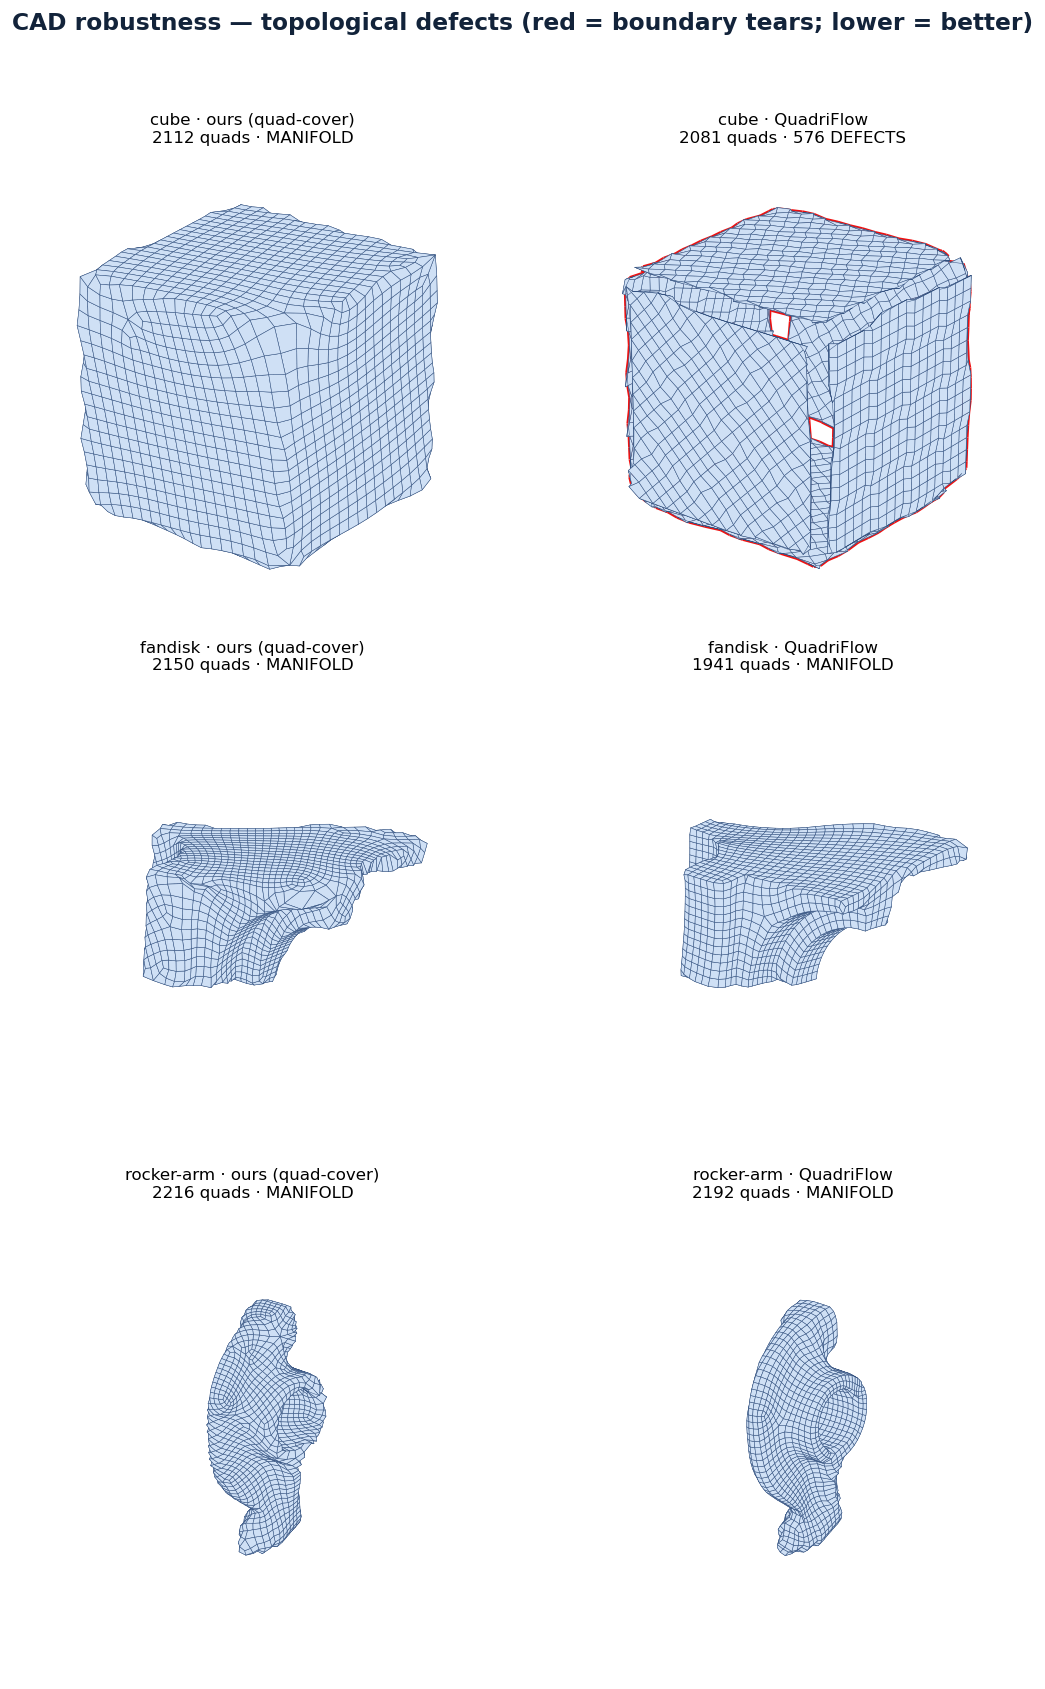
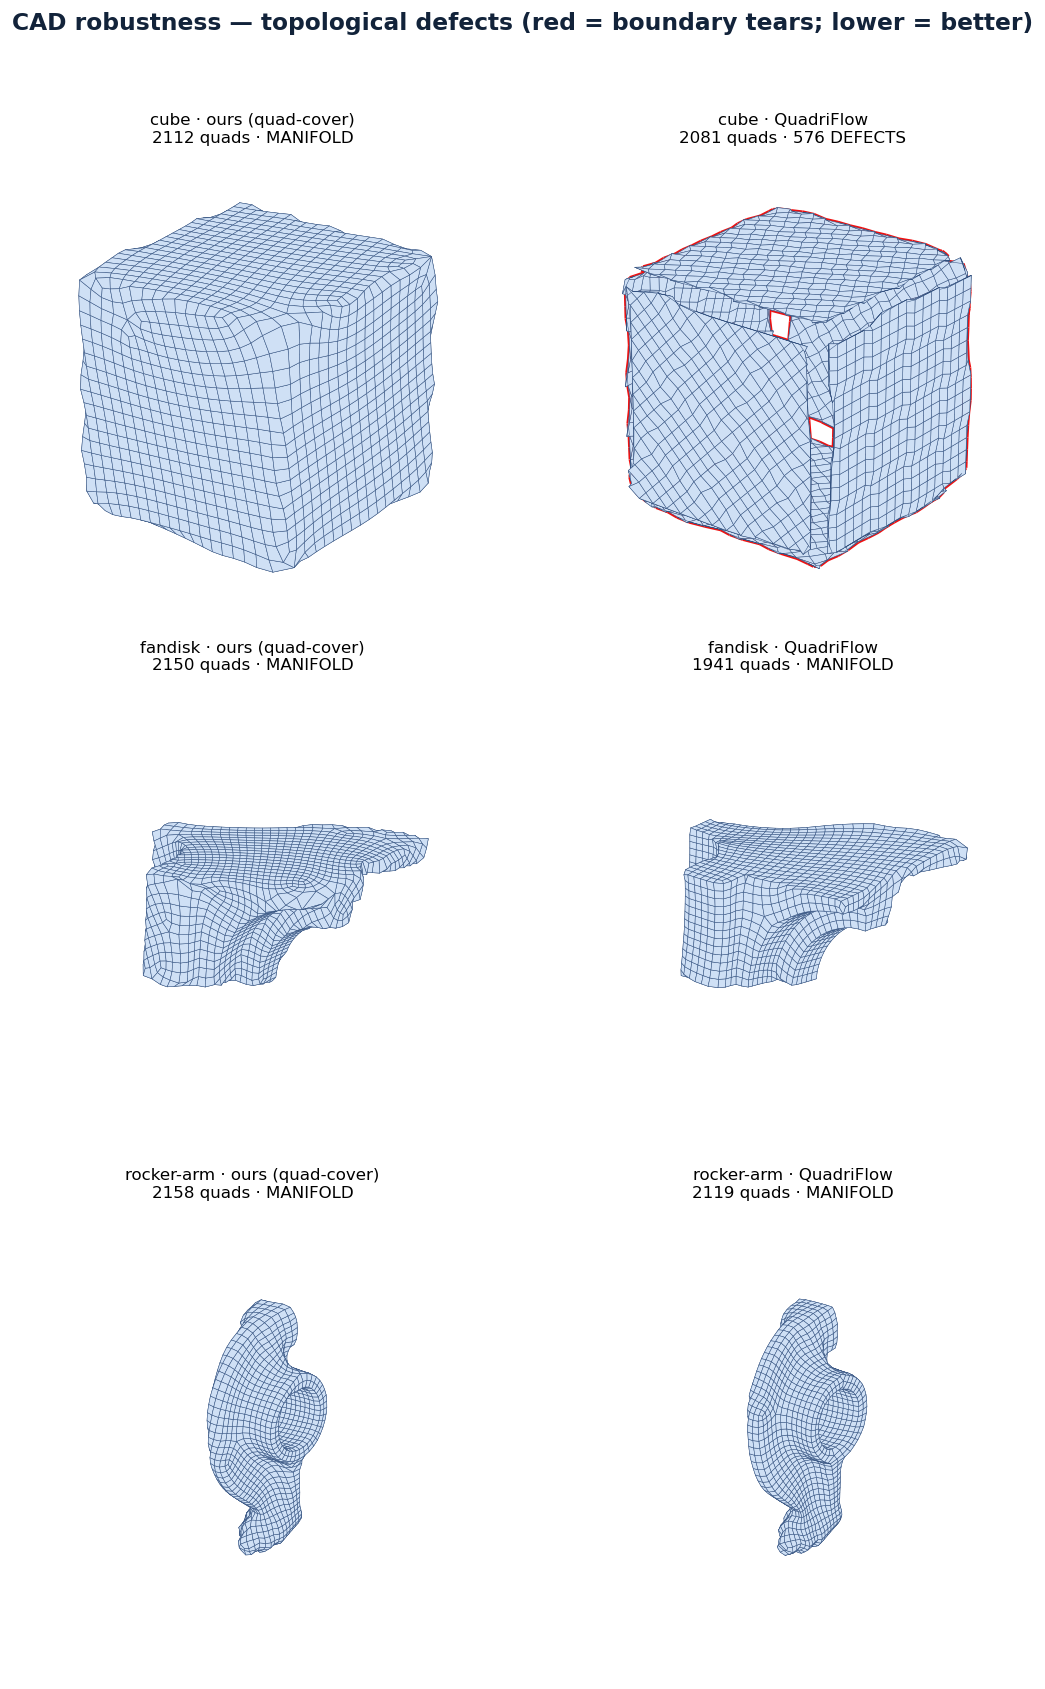
openspec: state the measured quality guarantee, not the aspirational one
remeshing-pipeline claimed the quad-cover default SHALL match or beat
QuadriFlow on median angle AND irregular-vertex count "on the organic test
corpus". That is unmet: cheburashka is organic and loses both axes (median
80 vs 82, irregular 4% vs 2%) plus the corpus's widest edge-CV gap. The
claim came from a "3/4 organic" reading that counted mechanical rocker-arm
as organic and omitted cheburashka; the real figures are 2/3 organic and
3/5 corpus-wide.

Split the overloaded scenario so backend selection/degrade behaviour stays
separate from the quality claim, and restate the claim per-model against the
re-pointed benchmark. Promote topological validity to normative — it holds
5/5 and is the one axis we beat QuadriFlow on outright, but was unstated.
Add feature-following as an explicit known gap with its root cause
(un-pinned integer-grid phase) so it is not mis-scoped as a snap problem.

Re-measured the cube tear case instead of quoting it from notes: it is 576
boundary edges against our 0 at ~2100 quads, not the 554/508 floating around
in older notes. The count scales with requested density, so the spec pins the
density and makes the shape of the result the normative part.

No engine changes. 14/14 specs validate --strict.

diff --git a/openspec/changes/archive/2026-07-23-align-quality-claims-with-measurement/proposal.md b/openspec/changes/archive/2026-07-23-align-quality-claims-with-measurement/proposal.md
@@ -1,0 +1,56 @@
+# Proposal: align-quality-claims-with-measurement
+
+## Why
+
+`remeshing-pipeline` carries a normative quality guarantee the benchmark does not
+support:
+
+> on the organic test corpus it SHALL match or beat QuadriFlow on median quad
+> angle AND irregular-vertex count
+
+That sentence entered the spec from a "3/4 organic models" reading that was
+selection bias — it counted **rocker-arm**, a mechanical part, as organic and
+omitted **cheburashka**, an actual organic character. Cheburashka loses *both*
+named axes (median 80 vs 82, irregular 4% vs 2%) and carries the corpus's widest
+edge-length-CV gap (0.22 vs 0.15). On the real organic set the default is **2/3**,
+not 3/4; corpus-wide it is **3/5 on median and 3/5 on irregular**.
+
+The claim also became measurable only recently: the benchmark had been scoring the
+retired `instant-meshes` extractor in its comparison phases, and was re-pointed at
+the shipped default in `7abbaec`. The numbers below are from that corrected
+harness.
+
+Meanwhile the spec **understates** the result that is actually corpus-wide and
+unambiguous: the default is topologically valid on **5/5**, including cases where
+QuadriFlow tears the mesh (cube: 0 defects vs 554; stanford-bunny: 8 vs 38). The
+strongest true claim is not in the spec, and a weaker false one is.
+
+This change replaces the aspiration with the measurement, and records the two
+known losses so they are tracked rather than implied away.
+
+## What Changes
+
+- **Narrow the quality guarantee** in the default-extractor scenario from "the
+  organic test corpus … median AND irregular" to the measured majority (spot,
+  rocker-arm, stanford-bunny), naming **fandisk and cheburashka** as the known
+  exceptions.
+- **Promote topological validity to a normative guarantee** — it holds on 5/5 and
+  is the one axis where the default beats QuadriFlow outright.
+- **State the feature-following gap as a known limitation** rather than leaving it
+  unmentioned: 3 real losses (fandisk 2.0x, cheburashka 2.0x, rocker-arm 1.5x),
+  with spot a tie and stanford-bunny confounded by its scan-hole boundary.
+
+No code changes. This is a spec-correctness change: the engine is unchanged and
+the benchmark already reports these numbers.
+
+## Capabilities
+
+- `remeshing-pipeline` — MODIFIED: quality claims restated against measurement.
+
+## Impact
+
+- Anyone reading the spec as a contract gets the guarantee the code actually
+  meets. The previous text would fail a conformance check on cheburashka.
+- The feature-following gap becomes a documented, tracked limitation instead of an
+  unstated one; see `docs/ROADMAP.md` for the three cheap levers already measured
+  dead (M2a vertex-snap, M2b gauge-pin, M2c routing-threshold).

diff --git a/openspec/changes/archive/2026-07-23-align-quality-claims-with-measurement/specs/remeshing-pipeline/spec.md b/openspec/changes/archive/2026-07-23-align-quality-claims-with-measurement/specs/remeshing-pipeline/spec.md
@@ -1,0 +1,45 @@
+# remeshing-pipeline (delta)
+
+## MODIFIED Requirements
+
+### Requirement: Quad extraction and pure-quad option
+Extraction SHALL trace integer isolines into a connection graph, simplify it (dissolve valence-2 vertices, collapse degenerate edges/cycles, prune dangling chains), and enumerate faces. Default output is quad-dominant. When the pure-quad option is enabled, a post-pass SHALL eliminate non-quads where topologically achievable (splitting/merging into quads) and the report SHALL state the exact residual non-quad count.
+
+#### Scenario: Non-quad accounting
+- **WHEN** any remesh completes
+- **THEN** the report SHALL state quad count, non-quad count by arity, vertex count, and singularity count
+
+#### Scenario: QuadCover seamless-UV extractor is the default
+- **WHEN** a remesh runs without an explicit quadMethod
+- **THEN** the pipeline SHALL use the `quad-cover` quadrangulator by default (CLI, C ABI, and bindings), which parameterizes each island with a seamless-UV solve and extracts integer isolines into quads, and SHALL degrade to the field-aligned quadrangulator (never silently to a corrupt mesh) when no seamless-UV solver can produce a valid result for an island
+
+#### Scenario: Element quality against the QuadriFlow reference
+- **WHEN** the default `quad-cover` path runs on the benchmark corpus (spot, fandisk, rocker-arm, cheburashka, stanford-bunny) with the in-process reference field compiled in (see the seamless-UV backend requirement), at a matched quad count
+- **THEN** it SHALL match or beat QuadriFlow on median quad angle AND irregular-vertex count on **spot, rocker-arm and stanford-bunny**, and the benchmark SHALL report the per-model comparison rather than a single aggregate
+- **AND** **fandisk** (median 83 vs 85, irregular 3% vs 1%) and **cheburashka** (median 80 vs 82, irregular 4% vs 2%, edge-length CV 0.22 vs 0.15) are known exceptions, tracked as the crease-alignment gap below; a claim of a corpus-wide or organic-corpus win on these axes is NOT supported by measurement
+
+#### Scenario: Topological validity is the corpus-wide guarantee
+- **WHEN** the default `quad-cover` path runs on any model in the benchmark corpus
+- **THEN** its output SHALL be at least as topologically valid as QuadriFlow's on every model, counting non-manifold edges, boundary edges and degenerate faces — measured as 0 defects on spot, fandisk, rocker-arm and cheburashka, and 8 vs QuadriFlow's 38 on stanford-bunny
+- **AND** it SHALL remain manifold on degenerate flat CAD input where QuadriFlow tears: a subdivided sharp-edged cube at ~2100 quads gives 0 defects against QuadriFlow's 576 boundary edges (`examples/12_cad_robustness.py`). The reference's tear count scales with the requested density and is not a fixed figure; the normative part is that ours is 0 and QuadriFlow's is in the hundreds
+
+#### Scenario: Feature-following is a known gap
+- **WHEN** output fidelity to source creases is measured against QuadriFlow
+- **THEN** the default SHALL be reported as trailing, not matching: fandisk 0.82 vs 0.41 (2.0x), cheburashka 1.15 vs 0.57 (2.0x) and rocker-arm 0.61 vs 0.40 (1.5x), with spot a tie (0.46 vs 0.44, only 73 crease edges) and stanford-bunny confounded because the metric counts its scan-hole boundary as a feature
+- **AND** the cause SHALL be recorded as un-pinned integer-grid *phase* (the cross field is crease-aligned; the quad loops sit about half a cell off the creases), so that closing it is understood to require per-feature-edge integer constraints in the parameterization rather than a post-extraction snap
+
+#### Scenario: Field-aligned pairing maximizes quad-dominance
+- **WHEN** the field-aligned quadrangulator pairs triangles into quads
+- **THEN** it SHALL compute a maximum matching on the triangle-adjacency graph (a weighted-greedy seed that prefers field-diagonal, high-quality merges, followed by augmenting-path improvement that rescues triangles a greedy pass would strand), so quad-dominance is maximized (~95%+ on clean input) rather than left at the ~76–84% a greedy maximal matching produces, while surviving quad edges still follow the cross field. The field-aligned quadrangulator is the always-available fallback; it is selected explicitly via quadMethod and is the automatic degrade target when the default quad-cover path declines an island.
+
+#### Scenario: Position-field quadrangulator option
+- **WHEN** quadMethod selects the position-field (Instant-Meshes-style) extractor
+- **THEN** the pipeline SHALL build a per-vertex 4-RoSy orientation field and a lattice position field, collapse mesh vertices into lattice cells (with post-collapse edge recovery so the collapsed graph reaches near-grid valence), and extract faces by a rotation-system walk with greedy-cut hole filling, yielding more uniform, field-aligned edge flow (edge-length CV competitive with field-based references such as QuadriFlow) with fewer, better-placed singularities; residual singularity triangles SHALL be resolved by the pure-quad path. It is offered as an opt-in alternative, never copying GPL sources. It is NOT the default and SHALL NOT be used as the subject of comparison claims about the shipped pipeline.
+
+#### Scenario: Pure-quad post-pass
+- **WHEN** the pure-quad option is enabled
+- **THEN** the output SHALL contain only quads, or the report SHALL explicitly list the residual non-quads that could not be resolved
+
+#### Scenario: Pure-quad element quality
+- **WHEN** the pure-quad option is enabled
+- **THEN** the construction (quad-dominant remesh at a fraction of the target density, then one linear subdivision) SHALL be followed by a tangential-relaxation de-slivering pass — interior vertices slide toward their 1-ring centroid within the tangent plane, re-projecting onto the source surface each iteration, with feature (sharp-crease) and boundary vertices held fixed — so the quads are well shaped (no slivers or collapsed edges) rather than merely all four-sided, while the silhouette follows the source curvature. For the position-field and quad-cover quadrangulators the relaxation SHALL instead fit each quad to a common-sized square (shape matching), regularising 90-degree corners and equal edge lengths together for uniformity competitive with field-based references. Charts produced on a uniform (integer-grid or seamless) base SHALL take a longer projected base-relax before subdivision, lifting median angle at no edge-length-CV cost.

diff --git a/openspec/changes/archive/2026-07-23-align-quality-claims-with-measurement/tasks.md b/openspec/changes/archive/2026-07-23-align-quality-claims-with-measurement/tasks.md
@@ -1,0 +1,37 @@
+# Tasks: align-quality-claims-with-measurement
+
+Spec-correctness change — no engine work. The measurements already exist; these
+tasks are about making the spec state them.
+
+## 1. Establish the measurement
+
+- [x] Re-point the benchmark at the shipped extractor (`7abbaec`) — the
+      comparison phases had been scoring the retired `instant-meshes` path.
+- [x] Re-measure the corpus at `--target-quads 3000` on the `cpu-headless`
+      build (`-DCYBER_WITH_QUADCOVER=ON`): per-model median, irregular %,
+      edge-length CV, defects, feature error.
+- [x] Record the standing table in `docs/ROADMAP.md`.
+- [x] Re-measure the cube tear case (`examples/12_cad_robustness.py`) rather than
+      quoting it from notes — the figure was remembered two ways (554 and 508)
+      and is actually **576** boundary edges at ~2100 quads, against our 0. It
+      scales with requested density, so the spec states the shape of the result
+      and pins the density it was measured at.
+
+## 2. Correct the spec
+
+- [x] Split the overloaded default-extractor scenario: selection/degrade
+      behaviour stays, the quality claim moves to its own scenario.
+- [x] Narrow the quality guarantee to the measured majority (spot, rocker-arm,
+      stanford-bunny), naming fandisk and cheburashka as known exceptions.
+- [x] Add topological validity as the corpus-wide (5/5) guarantee, including the
+      cube case where QuadriFlow tears.
+- [x] Add feature-following as an explicit known gap, with the root cause
+      (un-pinned integer-grid phase) so the fix is not mis-scoped as a snap.
+- [x] Note that the position-field extractor is retired from comparison claims —
+      the mis-measurement that produced the original overclaim.
+
+## 3. Verify
+
+- [x] `openspec validate align-quality-claims-with-measurement --strict`.
+- [x] `openspec archive align-quality-claims-with-measurement` — merged into
+      `openspec/specs/remeshing-pipeline/spec.md`; 14/14 specs validate strict.

diff --git a/openspec/specs/remeshing-pipeline/spec.md b/openspec/specs/remeshing-pipeline/spec.md
@@ -51,7 +51,22 @@ Extraction SHALL trace integer isolines into a connection graph, simplify it (di
 
 #### Scenario: QuadCover seamless-UV extractor is the default
 - **WHEN** a remesh runs without an explicit quadMethod
-- **THEN** the pipeline SHALL use the `quad-cover` quadrangulator by default (CLI, C ABI, and bindings), which parameterizes each island with a seamless-UV solve and extracts integer isolines into quads; on the organic test corpus it SHALL match or beat QuadriFlow on median quad angle AND irregular-vertex count when the in-process reference field is compiled in (see the seamless-UV backend requirement), and SHALL degrade to the field-aligned quadrangulator (never silently to a corrupt mesh) when no seamless-UV solver can produce a valid result for an island
+- **THEN** the pipeline SHALL use the `quad-cover` quadrangulator by default (CLI, C ABI, and bindings), which parameterizes each island with a seamless-UV solve and extracts integer isolines into quads, and SHALL degrade to the field-aligned quadrangulator (never silently to a corrupt mesh) when no seamless-UV solver can produce a valid result for an island
+
+#### Scenario: Element quality against the QuadriFlow reference
+- **WHEN** the default `quad-cover` path runs on the benchmark corpus (spot, fandisk, rocker-arm, cheburashka, stanford-bunny) with the in-process reference field compiled in (see the seamless-UV backend requirement), at a matched quad count
+- **THEN** it SHALL match or beat QuadriFlow on median quad angle AND irregular-vertex count on **spot, rocker-arm and stanford-bunny**, and the benchmark SHALL report the per-model comparison rather than a single aggregate
+- **AND** **fandisk** (median 83 vs 85, irregular 3% vs 1%) and **cheburashka** (median 80 vs 82, irregular 4% vs 2%, edge-length CV 0.22 vs 0.15) are known exceptions, tracked as the crease-alignment gap below; a claim of a corpus-wide or organic-corpus win on these axes is NOT supported by measurement
+
+#### Scenario: Topological validity is the corpus-wide guarantee
+- **WHEN** the default `quad-cover` path runs on any model in the benchmark corpus
+- **THEN** its output SHALL be at least as topologically valid as QuadriFlow's on every model, counting non-manifold edges, boundary edges and degenerate faces — measured as 0 defects on spot, fandisk, rocker-arm and cheburashka, and 8 vs QuadriFlow's 38 on stanford-bunny
+- **AND** it SHALL remain manifold on degenerate flat CAD input where QuadriFlow tears: a subdivided sharp-edged cube at ~2100 quads gives 0 defects against QuadriFlow's 576 boundary edges (`examples/12_cad_robustness.py`). The reference's tear count scales with the requested density and is not a fixed figure; the normative part is that ours is 0 and QuadriFlow's is in the hundreds
+
+#### Scenario: Feature-following is a known gap
+- **WHEN** output fidelity to source creases is measured against QuadriFlow
+- **THEN** the default SHALL be reported as trailing, not matching: fandisk 0.82 vs 0.41 (2.0x), cheburashka 1.15 vs 0.57 (2.0x) and rocker-arm 0.61 vs 0.40 (1.5x), with spot a tie (0.46 vs 0.44, only 73 crease edges) and stanford-bunny confounded because the metric counts its scan-hole boundary as a feature
+- **AND** the cause SHALL be recorded as un-pinned integer-grid *phase* (the cross field is crease-aligned; the quad loops sit about half a cell off the creases), so that closing it is understood to require per-feature-edge integer constraints in the parameterization rather than a post-extraction snap
 
 #### Scenario: Field-aligned pairing maximizes quad-dominance
 - **WHEN** the field-aligned quadrangulator pairs triangles into quads
@@ -59,7 +74,7 @@ Extraction SHALL trace integer isolines into a connection graph, simplify it (di
 
 #### Scenario: Position-field quadrangulator option
 - **WHEN** quadMethod selects the position-field (Instant-Meshes-style) extractor
-- **THEN** the pipeline SHALL build a per-vertex 4-RoSy orientation field and a lattice position field, collapse mesh vertices into lattice cells (with post-collapse edge recovery so the collapsed graph reaches near-grid valence), and extract faces by a rotation-system walk with greedy-cut hole filling, yielding more uniform, field-aligned edge flow (edge-length CV competitive with field-based references such as QuadriFlow) with fewer, better-placed singularities; residual singularity triangles SHALL be resolved by the pure-quad path. It is offered as an opt-in alternative, never copying GPL sources.
+- **THEN** the pipeline SHALL build a per-vertex 4-RoSy orientation field and a lattice position field, collapse mesh vertices into lattice cells (with post-collapse edge recovery so the collapsed graph reaches near-grid valence), and extract faces by a rotation-system walk with greedy-cut hole filling, yielding more uniform, field-aligned edge flow (edge-length CV competitive with field-based references such as QuadriFlow) with fewer, better-placed singularities; residual singularity triangles SHALL be resolved by the pure-quad path. It is offered as an opt-in alternative, never copying GPL sources. It is NOT the default and SHALL NOT be used as the subject of comparison claims about the shipped pipeline.
 
 #### Scenario: Pure-quad post-pass
 - **WHEN** the pure-quad option is enabled